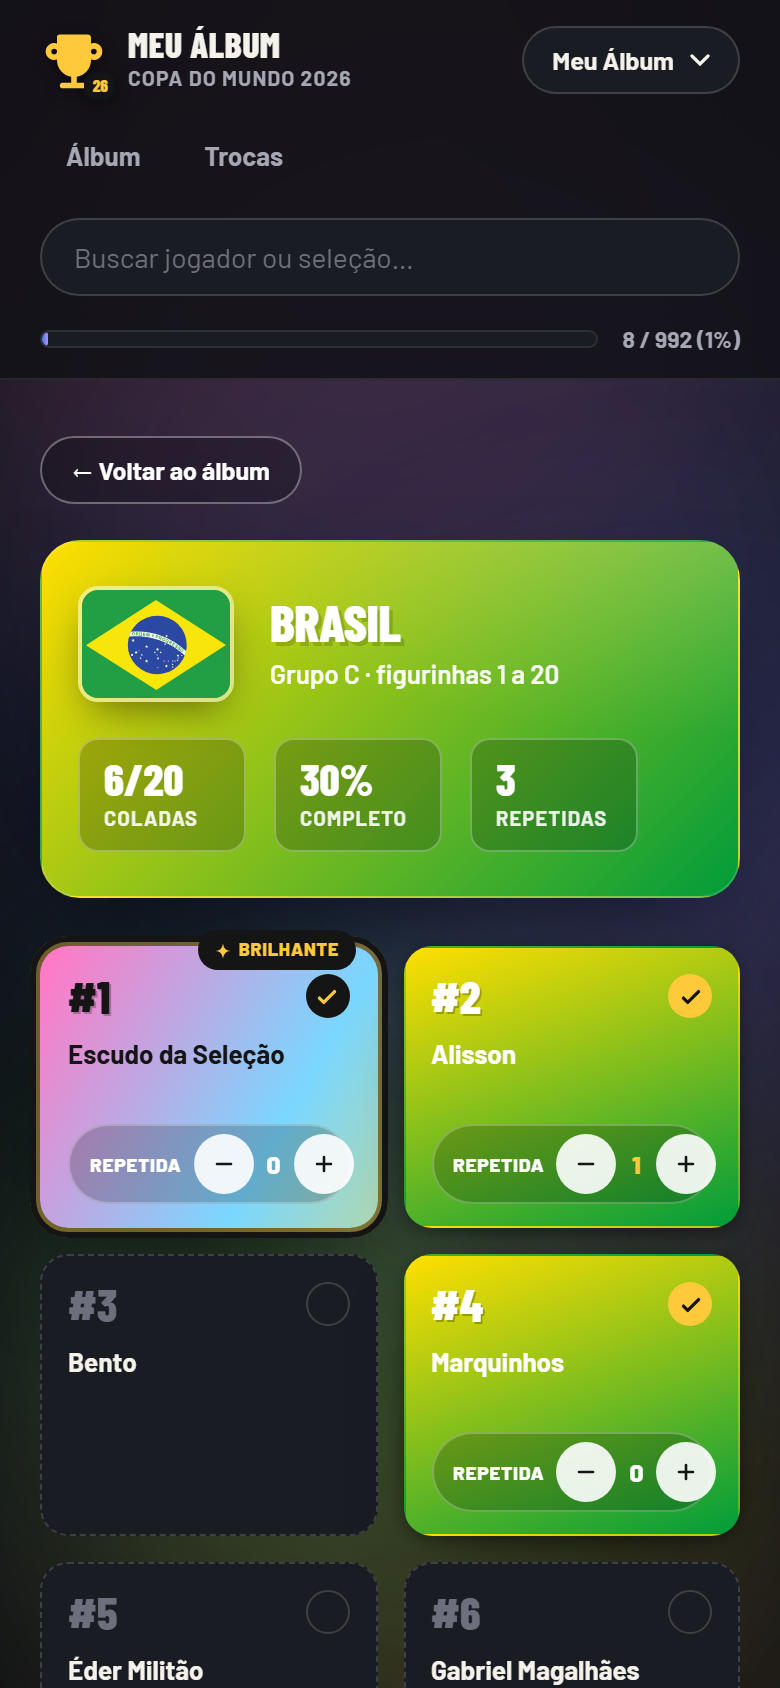
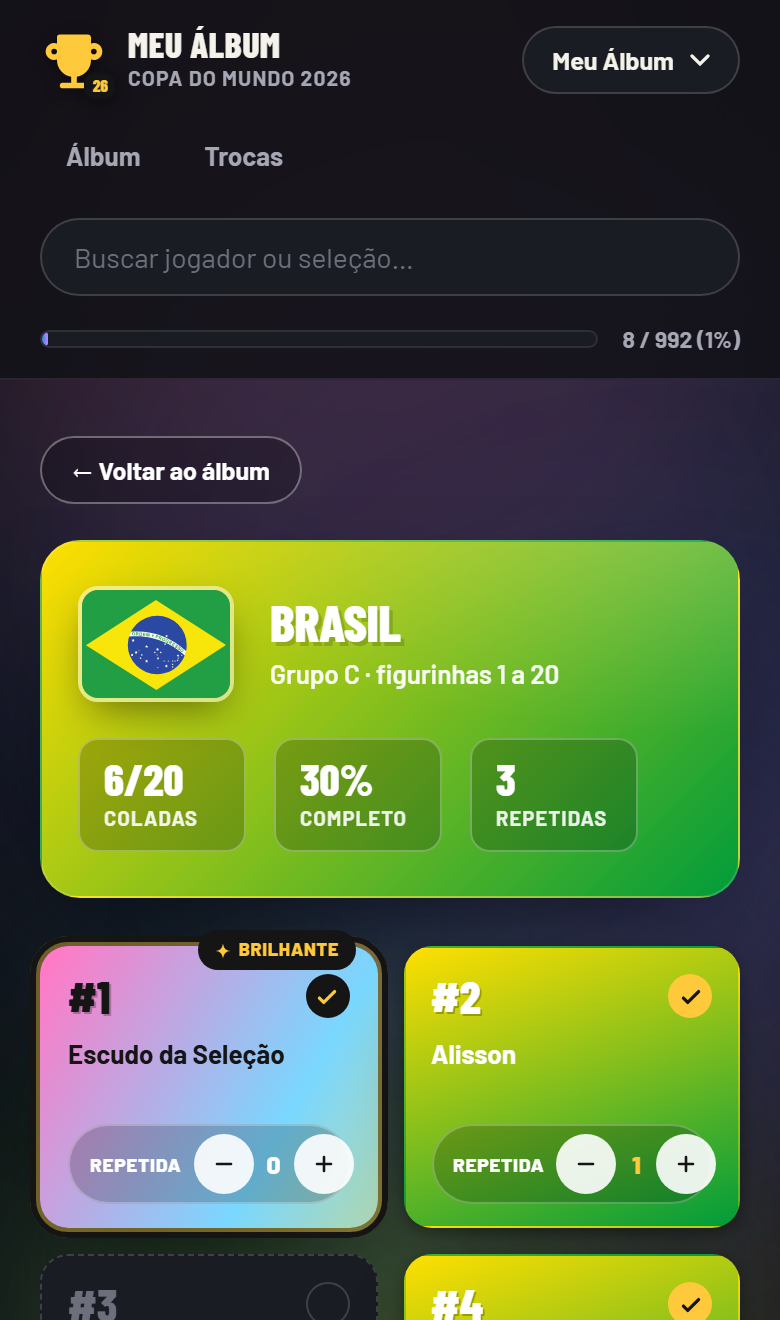
docs: capturas do celular na altura de uma tela, empilhadas em telas estreitas

diff --git a/README.md b/README.md
@@ -38,12 +38,10 @@ Gravado com o Playwright, com o app rodando localmente (`python -m http.server`)
 
 No celular, a busca ganha uma linha própria e as figurinhas ficam em duas colunas:
 
-<table>
-  <tr>
-    <td width="50%" valign="top"><img src=".github/capturas/celular-selecao.png" alt="Página do Brasil numa tela de 390 px: cabeçalho verde e amarelo com 6/20 coladas, 30% e 3 repetidas, e as figurinhas em duas colunas, com o contador de repetidas nas coladas"></td>
-    <td width="50%" valign="top"><img src=".github/capturas/celular-trocas.png" alt="Tela Trocas numa tela de 390 px: aba Repetidas com 3 figurinhas diferentes e 4 repetidas no total, o botão Copiar lista e as repetidas do Brasil e da Argentina com o código, o nome e a quantidade"></td>
-  </tr>
-</table>
+<p align="center">
+  <img src=".github/capturas/celular-selecao.png" width="300" alt="Página do Brasil numa tela de 390 px: cabeçalho verde e amarelo com 6/20 coladas, 30% e 3 repetidas, e as figurinhas em duas colunas, com o contador de repetidas nas coladas">
+  <img src=".github/capturas/celular-trocas.png" width="300" alt="Tela Trocas numa tela de 390 px: aba Repetidas com 3 figurinhas diferentes e 4 repetidas no total, o botão Copiar lista e as repetidas do Brasil e da Argentina com o código, o nome e a quantidade">
+</p>
 
 ## Como rodar em 60 segundos
 
